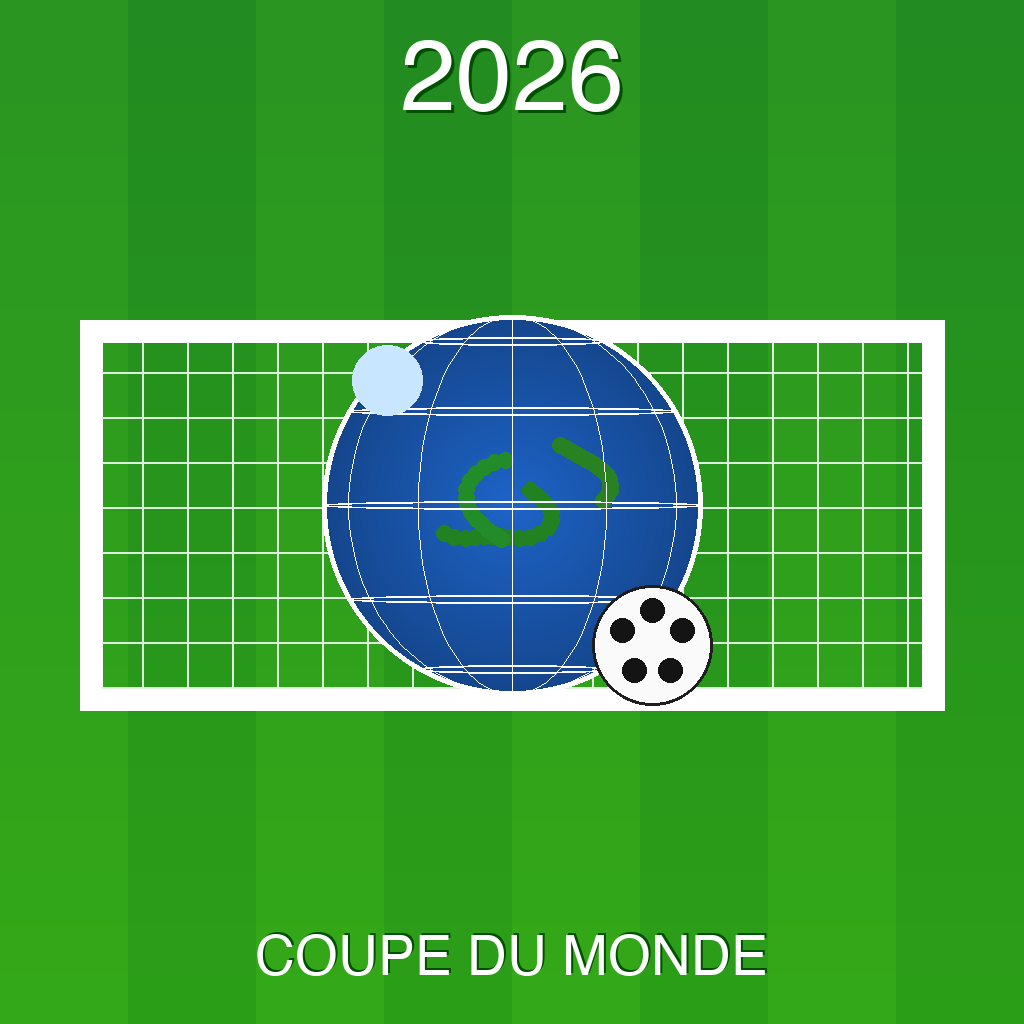
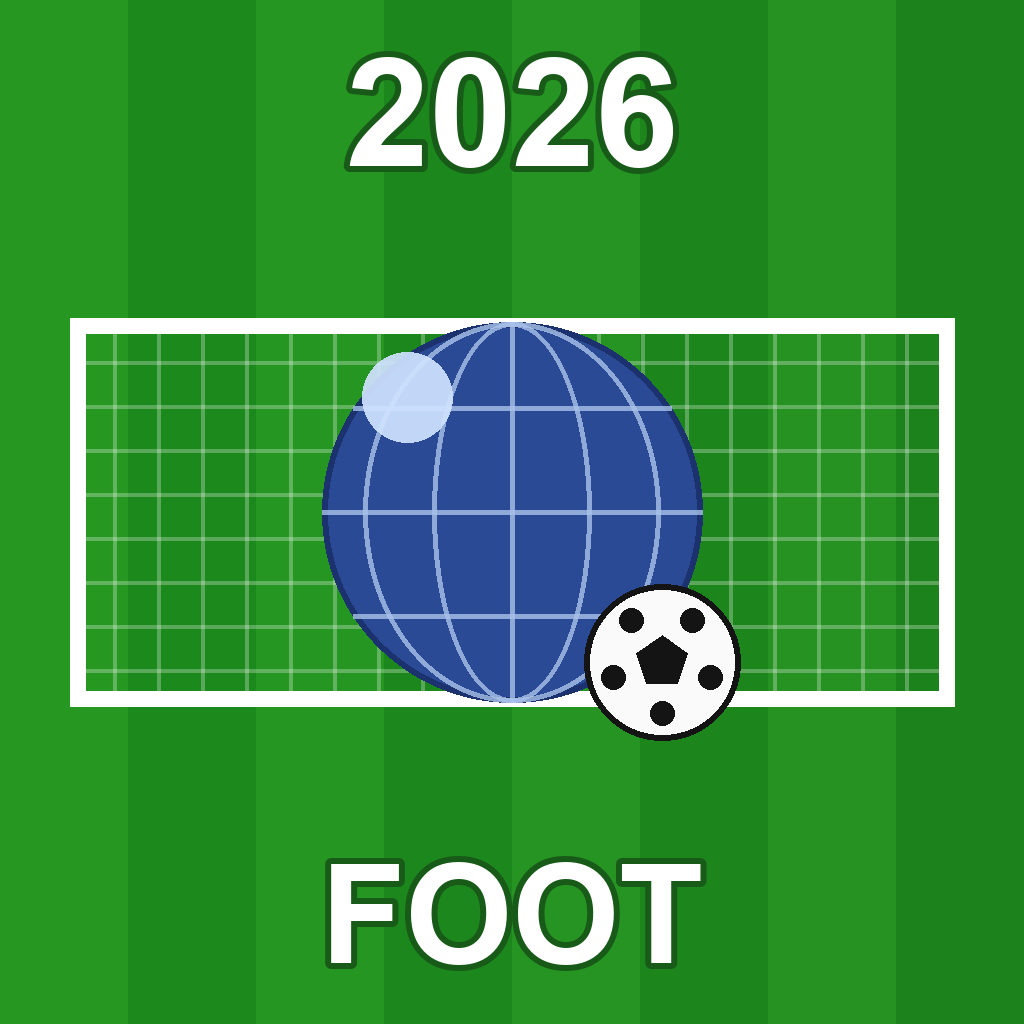
fix: retire 'Coupe du Monde' de l'icône (App Store 5.2.1)
- Icône app + site: '2026 / COUPE DU MONDE' -> '2026 / FOOT' (même visuel)
- Nettoie les références FIFA / World Cup restantes dans les commentaires
- Renomme fifaRankings -> worldRankings
- Conserve les URLs d'API ESPN (fifa.world) et les disclaimers de non-affiliation

diff --git a/FOOT2026/Match.swift b/FOOT2026/Match.swift
@@ -1,6 +1,6 @@
 // Match.swift
 // FOOT2026
-// Official FIFA World Cup 2026 fixture data – source: Wikipedia / FIFA
+// 2026 tournament fixture data – source: public schedules
 
 import Foundation
 
@@ -201,7 +201,7 @@ struct Match: Identifiable, Codable {
     }
 
     /// Exhaustive set of match numbers broadcast on M6 (free-to-air).
-    /// Source: official FIFA World Cup 2026 calendar – "+" marker.
+    /// Source: official 2026 tournament calendar – "+" marker.
     private static let m6MatchNumbers: Set<Int> = [
         // ── Phase de groupes ──
         1,  // Mexique - Afrique du Sud (match d'ouverture)
@@ -275,7 +275,7 @@ struct Match: Identifiable, Codable {
     }
 }
 
-// MARK: - Fixture Data (source: Wikipedia / FIFA)
+// MARK: - Fixture Data (source: public schedules)
 
 extension Match {
 

diff --git a/FOOT2026/Standings.swift b/FOOT2026/Standings.swift
@@ -64,7 +64,7 @@ extension MatchStore {
         return rankGroup(Array(stats.values), matches: groupMatches)
     }
 
-    /// Overall comparison predicate (FIFA criteria 1–3): Points > DB > BM,
+    /// Overall comparison predicate (criteria 1–3): Points > DB > BM,
     /// then alphabetical as a stable fallback.
     /// Used directly for cross-group rankings (e.g. the best third-placed teams,
     /// who never meet in the group stage so head-to-head doesn't apply).
@@ -75,7 +75,7 @@ extension MatchStore {
         return a.team < b.team
     }
 
-    /// FIFA World Cup group ranking:
+    /// Group ranking:
     ///   1. points (all matches)  2. goal difference (all)  3. goals scored (all)
     /// then, between teams still level, the head-to-head sub-table among them:
     ///   4. points  5. goal difference  6. goals scored (matches between them only)
@@ -105,7 +105,7 @@ extension MatchStore {
     }
 
     /// Re-orders teams tied on the overall criteria using only the matches
-    /// played between them (the FIFA head-to-head sub-table).
+    /// played between them (the head-to-head sub-table).
     private func breakTie(_ tied: [TeamStanding], matches: [Match]) -> [TeamStanding] {
         let names = Set(tied.map(\.team))
         var pts = [String: Int](), gd = [String: Int](), gf = [String: Int]()

diff --git a/FOOT2026/MatchStore.swift b/FOOT2026/MatchStore.swift
@@ -4,8 +4,8 @@
 
 import SwiftUI
 
-// FIFA World Ranking – June 11, 2026 (official)
-let fifaRankings: [String: Int] = [
+// World ranking – June 11, 2026
+let worldRankings: [String: Int] = [
     "Argentine":           1,
     "Espagne":             2,
     "France":              3,

diff --git a/FOOT2026/StandingsView.swift b/FOOT2026/StandingsView.swift
@@ -127,14 +127,14 @@ struct StandingsView: View {
             positionBadge(position)
                 .frame(width: 24)
 
-            // Flag + name + FIFA rank
+            // Flag + name + world rank
             HStack(spacing: 5) {
                 Text(s.flag).font(.body)
                 Text(s.team)
                     .font(.caption.bold())
                     .lineLimit(1)
                     .minimumScaleFactor(0.75)
-                if let rank = fifaRankings[s.team] {
+                if let rank = worldRankings[s.team] {
                     Text("\(rank)")
                         .font(.system(size: 9, weight: .semibold))
                         .foregroundStyle(.secondary)

diff --git a/FOOT2026/ThirdPlaceTable.swift b/FOOT2026/ThirdPlaceTable.swift
@@ -1,6 +1,6 @@
 // ThirdPlaceTable.swift
-// FOOT2026 — Official FIFA 2026 third-place dispatch table (Annex C)
-// Auto-generated from Wikipedia / FIFA regulations
+// FOOT2026 — 2026 third-place dispatch table (Annex C)
+// Auto-generated from public tournament regulations
 // Key = 8 qualifying group letters sorted, Value = [slotKey: assignedGroup]
 //
 // Slot keys → match:

diff --git a/FOOT2026/Player.swift b/FOOT2026/Player.swift
@@ -1,6 +1,6 @@
 // Player.swift
 // FOOT2026
-// Player model and World Cup 2026 squad data (~23–26 players per team)
+// Player model and 2026 squad data (~23–26 players per team)
 
 import Foundation
 

diff --git a/FOOT2026/PlayerPhotoService.swift b/FOOT2026/PlayerPhotoService.swift
@@ -280,7 +280,7 @@ struct RemotePlayerPhoto<Placeholder: View>: View {
 
     var body: some View {
         // Note: `Group` is qualified because the app defines its own `enum Group`
-        // (World Cup groups A–L), which would otherwise shadow SwiftUI.Group.
+        // (tournament groups A–L), which would otherwise shadow SwiftUI.Group.
         SwiftUI.Group {
             if let image {
                 Image(uiImage: image)

diff --git a/FOOT2026Tests/FOOT2026Tests.swift b/FOOT2026Tests/FOOT2026Tests.swift
@@ -1,5 +1,5 @@
 // FOOT2026Tests.swift
-// Unit tests for the tournament logic: FIFA group ranking (incl. head-to-head),
+// Unit tests for the tournament logic: group ranking (incl. head-to-head),
 // the third-place dispatch table, and prediction scoring.
 
 import XCTest